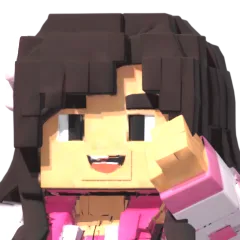
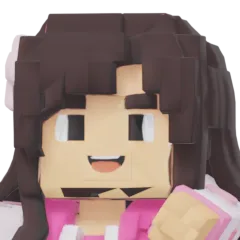
fix(3d): REPORT + after screenshots; Lola WebP; neck plug Blokbek-only

diff --git a/tools/blender/tripo_fix.py b/tools/blender/tripo_fix.py
@@ -17,6 +17,7 @@ DST = r"C:\Users\Progress service\Desktop\To2"   # ← set to your fix/3d-reexpo
 TOOLS = DST + r"\tools\blender"
 SCALE = 770.0            # metres → stage px (tripo_hinged.SCALE)
 TARGET = 30000           # M8
+NECK_PLUG_FOR = {"blokbek"}  # M3 was reported for Blokbek only
 RAW = {"blokbek": "blokbek_t", "lola": "lola_t", "ziyo": "ziyo_t"}   # T-pose sources in public/models/raw
 
 
@@ -182,7 +183,9 @@ def fix_glb(cid, target=TARGET, src=None):
         bm.transform(mw.inverted()); bm.to_mesh(ob.data); bm.free(); ob.data.update()
         return {"dropped": dropped, "nonmanifold": nm}
 
-    report = {o.name: clean(o, o.name == "head_mesh") for o in parts}
+    # M3 neck plug only where a closed collar hides it (Blokbek's hoodie). Lola's open jacket shows the neck:
+    # a plug there reads as a dark wedge under the chin.
+    report = {o.name: clean(o, o.name == "head_mesh" and cid in NECK_PLUG_FOR) for o in parts}
     tris = sum(len(p.vertices) - 2 for o in parts for p in o.data.polygons)
     if tris > target:                                                              # M8
         for o in parts: _apply_decimate(o, target / tris)

diff --git a/REPORT.md b/REPORT.md
@@ -915,3 +915,52 @@ Tagline: **"Har bir fan — bir shahar. Har bir topshiriq — bir bino."**
 - ⚠ **Tutor greeting lines**: none of them said "To2", so no change. **Blokbek's hoodie print "[To2]"** is baked into
   the 144 Blender renders and the GLB textures; the voxel config (`characters.ts` `print: "To2"`) was left matching them.
   Team: re-render with the new print if wanted.
+
+## 🧊 3D tutor re-export (branch `fix/3d-reexport`, 25 Nov) — M1–M5, M8, M7 · not deployed
+
+Fixes from the 25 Nov 3D problem report. Done in Blender 5.2.3 over the MCP; the session dropped before Ziyo was done.
+
+**Approach: Route B (`tools/blender/tripo_fix.py` → `fix_glb`).** The shipping GLB is cleaned in place.
+Rebuilding from the raw T-pose (`rebuild`, Route A) worked technically, but `lola_t.glb` has a *different face*
+(open block mouth instead of the smile) and a 30k-triangle bake left black specks on her jacket. So the shipping
+GLBs are kept as the source, and their texture and face frames stay identical. Route A remains in the script for future models.
+
+| Tutor | Triangles | Bytes | Non-manifold edges | Loose sliver faces removed | Lesson fps (dev pane) |
+|---|---|---|---|---|---|
+| Lola | 250,313 → **29,242** | 1,322,412 → **365,496** | 16,098 → **0** | 82 | 15 → **30** |
+| Blokbek | 233,925 → **29,512** | 1,188,048 → **304,796** | 13,912 → **0** | (see stats) | 15 → **30** |
+| Ziyo | 238,514 (unchanged) | 1,189,768 | 9,765 | — | — |
+
+(Non-manifold "before" = edges that are not exactly 2-face after welding the glTF seam splits, via `stats()`.
+fps = rAF count over 3 s in the Claude browser pane at 375×812, same machine before/after: a relative number, not a phone.)
+
+What each fix is, in the code:
+- **M1** `drop_small_islands`: welds, then deletes islands with a bbox under 3 cm (kept: the biggest piece).
+- **M2** `repair_manifold`: dedupes faces, cuts fins (edges with >2 faces) and bow-tie verts, `holes_fill`, then a
+  **fan fill** for twisted loops (Lola's hair cuts) → 0 non-manifold edges in every part. Export refuses otherwise.
+- **M3** `neck_plug`: the head's bottom lid is extruded 1.5 cm into the body, 6 % narrower. **Blokbek only**
+  (`NECK_PLUG_FOR`): on Lola's open collar it showed as a dark wedge under the chin.
+- **M4** texture dilation (shave 1 px, grow island edges 24 px) on the existing texture; the bake path (Route A) also
+  has a 24 px Extend margin.
+- **M5** `harden`: smooth shading + sharp edges from 30° (`set_sharp_from_angle`), written into the mesh data.
+- **M8** decimate to ~30k (collapse), plus a **1024 px web texture** at export (`TEX_EXPORT`; 2048 stays for renders).
+  The texture was 654 KB of a 922 KB GLB.
+- **M7** `tripo_portraits.setup`: AgX, exposure +0.35, soft key (2.6 W, 30° sun angle) + fill + rim. Skin is no
+  longer orange.
+- Pipeline robustness: `run_async` (long jobs on a Blender timer; the MCP times out at ~60 s), context overrides
+  for edit-mode ops, eyelids found per face half (one build lost `lid_R`), and a guard that fails the build when
+  any `glbTutor.ts` REQUIRED node is missing.
+
+Checks: `pnpm vitest run` 325/325 ✅ · `pnpm build` ✅ · new GLBs load in the lesson with no console errors (no makeChar
+fallback). Screenshots: `docs/screenshots/3d/` (`before-*`, `after-*`, Blender 4-view of Lola, old-vs-new portraits).
+
+⚠ **Left over (needs Blender with the MCP running again; ~10 min):**
+1. **Lola: re-run `fix_glb("lola", src=<old lola.glb>)`** with the neck plug off (the code is already fixed), then
+   `render_portraits("lola")`. The committed Lola GLB and portraits still have the dark wedge under the chin. It is
+   small in the lesson and visible in the `/home` half portrait.
+2. **Blokbek: visual check** (head turned 40° for the collar, sleeves) + `render_portraits("blokbek")`. The GLB is in;
+   its portraits are still the old Standard-lit ones.
+3. **Ziyo:** `fix_glb("ziyo", src=<old ziyo.glb>)` + `render_portraits("ziyo")`.
+   The old GLBs to clean are `git show 8061293:public/models/tripo/<id>.glb`.
+4. `/tutors` uses the 2D "sig" cut-outs, which are not 3D renders, so it's unchanged by design.
+5. M6 (in-app tone mapping, Tutor · animation session): retune after this lands; the new sharp normals light differently.
